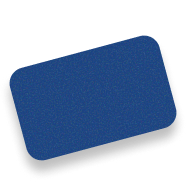
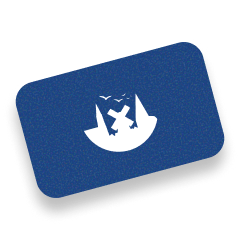
fix(maci): rotate VkRegistry + Governor to fix messageBatchSize=5/zKey mismatch
Previous deploy registered the production zKey VKs (compiled at
messageBatchTreeDepth=2 → batch size 25) under the wrong key
messageBatchSize=5, and spawned polls with messageTreeSubDepth=1.
Result: every finalize-poll attempt died at "Not enough values for
input signal msgs" because the local state padded to 5 messages but
the circuit demanded 25.

- Set MESSAGE_BATCH_DEPTH=2 in deploy-maci-base.{cjs,ts}
- New script register-vk-batch25.cjs deploys a fresh VkRegistry and
  registers VKs at the correct messageBatchSize=25 key (VkRegistry
  has no setProcessVk-only path; tally VK signature collides
  regardless of batch size, so fresh registry is the minimal fix)
- REUSE_INFRA=1 redeploy of MaciAttesterGovernor + Timelock against
  the new registry. MACI core, Verifier, gatekeeper, voice credit
  proxy, Poseidon libs all unchanged.
- Propagate new addresses through web/lib/contracts.ts,
  packages/blockchain/src/index.ts, expo/constants/thirdweb.ts;
  bump MACI_TREE_DEPTHS to messageTreeSubDepth=2/messageBatchSize=25.

Old Governor 0xc637…315A6 is archived under maciAttesterGovernor_archived_*
in deployments/base.json. Existing Poll 4 ballots are unrecoverable
(encrypted on chain, no zKey path can prove them) — that was already
the case before this change.

New addresses:
  Governor:   0xE7123B3190f42914b92045308687AF49Cc3d9d6F
  Timelock:   0xA4E366bF1Ce6BE74b6965f89E5513a5c42bcd892
  VkRegistry: 0x26Eddb1d4c45e7cA516B54Ed4105e252cc608BAc

diff --git a/packages/blockchain/src/index.ts b/packages/blockchain/src/index.ts
@@ -15,13 +15,15 @@ export const CONTRACTS = {
   legacyTimelock: "0xed1680AFf2A4235421b209A1bf8C7f5760149cc0",
 
   // Current MACI v2 privacy-voting governance (apps target this)
-  maciAttesterGovernor: "0xc637C95623837319584aA1a2fCb54C7BFDe315A6",
-  maciTimelock: "0x6C5dc64eB88D6Dcd8807965c4F2Df38661B777dF",
+  maciAttesterGovernor: "0xE7123B3190f42914b92045308687AF49Cc3d9d6F",
+  maciTimelock: "0xA4E366bF1Ce6BE74b6965f89E5513a5c42bcd892",
 
-  // MACI v2 infrastructure (one-time deploy, shared across all polls)
+  // MACI v2 infrastructure (MACI core, Verifier, gatekeeper, voice credit
+  // proxy reused; VkRegistry rotated 2026-05-08 to fix the messageBatchSize=5
+  // mismatch with the production-ceremony zKey).
   maci: "0x2922e42945a10d1F765E3f9Cab136421d4556D30",
   maciVerifier: "0x6682A865C9e2cAAC89DAAAdf25e15bc90db482D8",
-  maciVkRegistry: "0x585AAbaAE0CfAD7d11EbF89f470B03135BF88e38",
+  maciVkRegistry: "0x26Eddb1d4c45e7cA516B54Ed4105e252cc608BAc",
   maciGatekeeper: "0xbf79Fc06C304058cA77Bb718b21D183843e6c8ee",
   maciVoiceCreditProxy: "0x5b358A77E89FF3d699607b4fC235b381d67f3d05",
 
@@ -47,10 +49,10 @@ export const MACI_COORDINATOR_PUBKEY = {
 export const MACI_TREE_DEPTHS = {
   stateTreeDepth: 14,
   intStateTreeDepth: 9,
-  messageTreeSubDepth: 1,
+  messageTreeSubDepth: 2,
   messageTreeDepth: 2,
   voteOptionTreeDepth: 3,
-  messageBatchSize: 5,
+  messageBatchSize: 25,
 } as const;
 
 export const MACI_VOTE_OPTIONS = {

diff --git a/contracts/governor-contract/scripts/deploy-maci-base.ts b/contracts/governor-contract/scripts/deploy-maci-base.ts
@@ -34,7 +34,10 @@ const STATE_TREE_DEPTH = 14;
 const INT_STATE_TREE_DEPTH = 9;
 const MESSAGE_TREE_DEPTH = 2;
 const VOTE_OPTION_TREE_DEPTH = 3;
-const MESSAGE_BATCH_DEPTH = 1; // batch size = 5 ** 1 = 5
+// Must match the messageBatchTreeDepth of the production zKey
+// (ProcessMessagesNonQv_14-9-2-3 → depth 2 → batch size 5^2 = 25). Mirrors
+// deploy-maci-base.cjs.
+const MESSAGE_BATCH_DEPTH = 2;
 const MESSAGE_BATCH_SIZE = 5 ** MESSAGE_BATCH_DEPTH;
 
 interface RequiredEnv {

diff --git a/apps/expo/constants/thirdweb.ts b/apps/expo/constants/thirdweb.ts
@@ -42,12 +42,12 @@ export const attesterNFTAddress = process.env.NEXT_PUBLIC_ATTESTER_NFT || "0xa06
 export const citizenNFTAddress = process.env.NEXT_PUBLIC_CITIZEN_NFT || "0xe2d39ffd2ee0Ccd753486047AEBec031F334b5b7";
 
 export const legacyGovernorContractAddress = process.env.NEXT_PUBLIC_LEGACY_GOVERNOR || "0x84D8ab0FcA4D0689e2E3F036dc461942343c2a5b";
-export const governorContractAddress = process.env.NEXT_PUBLIC_GOVERNOR || "0xc637C95623837319584aA1a2fCb54C7BFDe315A6";
+export const governorContractAddress = process.env.NEXT_PUBLIC_GOVERNOR || "0xE7123B3190f42914b92045308687AF49Cc3d9d6F";
 
 // MACI v2 infrastructure
 export const maciAddress = process.env.NEXT_PUBLIC_MACI || "0x2922e42945a10d1F765E3f9Cab136421d4556D30";
 export const maciVerifierAddress = process.env.NEXT_PUBLIC_MACI_VERIFIER || "0x6682A865C9e2cAAC89DAAAdf25e15bc90db482D8";
-export const maciVkRegistryAddress = process.env.NEXT_PUBLIC_MACI_VK_REGISTRY || "0x585AAbaAE0CfAD7d11EbF89f470B03135BF88e38";
+export const maciVkRegistryAddress = process.env.NEXT_PUBLIC_MACI_VK_REGISTRY || "0x26Eddb1d4c45e7cA516B54Ed4105e252cc608BAc";
 export const maciCoordinatorAddress = process.env.NEXT_PUBLIC_MACI_COORDINATOR || "0x5e6528D22283Daf1E4340B39d48a4D3CeaDC184C";
 
 /** Block at (or slightly before) the MACI core deployment on Base mainnet.

diff --git a/apps/web/src/lib/contracts.ts b/apps/web/src/lib/contracts.ts
@@ -15,7 +15,7 @@ export const LEGACY_ATTESTER_GOVERNOR_ADDRESS = "0x84D8ab0FcA4D0689e2E3F036dc461
 
 // Current MACI v2 privacy-voting governor — proposal creation + voting target.
 // Source of truth: contracts/governor-contract/deployments/base.json
-export const MACI_GOVERNOR_ADDRESS = "0xc637C95623837319584aA1a2fCb54C7BFDe315A6";
+export const MACI_GOVERNOR_ADDRESS = "0xE7123B3190f42914b92045308687AF49Cc3d9d6F";
 export const MACI_ADDRESS = "0x2922e42945a10d1F765E3f9Cab136421d4556D30";
 
 // Convenience aliases — existing imports keep working but now point at the